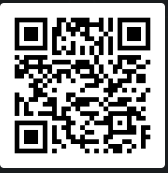
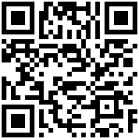
Add July 4th post, crop QR codes.

diff --git a/_posts/2023-07-04-History-of-the-Future.md b/_posts/2023-07-04-History-of-the-Future.md
@@ -1,0 +1,94 @@
+---
+title: The History of the Internet's Future
+published: true
+---
+
+By now, you probably know that the golden age of internet culture has fallen, but did you know that the internet as a whole is actually dying? A study in 2021 showed that only 57.7% of users on the internet were human, with harmful bots making up 27.7% of the internet. Recently, the rise of bots on the internet has been growing, with the proportion of humans being the lowest it's ever been in the last eight years. People are now estimating that since 2021, bots now make up 64% of the internet, leading to influencers like KAROMETRY popping off recently by using a fake AR version of herself to sell to fans, allowing followers to pay one dollar a minute towards the CBT4 version of herself, signifying how fake the internet's become in recent years with anything actually real being censored into silence. Just recently, big tech, the media, and government-funded third parties were actually proven to all be colluding to censor Americans' freedom of speech, and this is just the tip of the iceberg.
+
+What we see today on the internet is a far cry from what it was just 10 years ago. Originally, the internet was a form of expression; it was a place where anyone could be themselves, completely liberated from the world of government censorship and corporations, while permeating all the information in the world to everyone. Even though the internet was born out of a military research project funded by the Advanced Research Projects Agency, now known as DARPA, the whole goal of the internet was to create a network that could survive a nuclear attack. However, this quickly grew into something revolutionary because, soon, in the 1970s, the concept of packet switching was developed which allowed data to be broken up into small blocks or packets and sent over the network. This made the network more efficient and reliable. Then, in 1974, the Transmission Control Protocol/Internet Protocol was first introduced, which became the standard language for data transmission over the internet, setting the groundwork for the birth of the World Wide Web.
+
+As the internet expanded beyond the scope of military and academic fields, private users started to use it. So, in 1989, Tim Berners-Lee, a British computer scientist, invented the World Wide Web, a system of interlinked hypertext documents accessed via the internet. Once the 90s came around, the internet truly went mainstream. In 1991, the World Wide Web was made available to the public and it exploded in popularity. Businesses everywhere jumped on it. It was a new gold rush as the internet was seen as a tool that would empower individuals, promote freedom of expression, and facilitate the growth of businesses. The first web browser, Mosaic, was launched in 1993, and Mosaic made the web much more accessible to users. Because of this, the internet birthed its most iconic companies, such as Amazon in 1994, Yahoo, eBay, and eventually Google in 1998.
+
+It was in the same period that the Californian Ideology was taking off, a term coined around the mid-90s by media theorists Richard Barbrook and Andy Cameron who used the term to describe a new political and social philosophy emerging from the San Francisco Bay Area, the heart of this booming internet industry. They described this philosophy as being a blend of the free-willing spirit of the hippies and the entrepreneurial zeal of the yuppies, mixing up the counterculture radicalism of the 60s with new economic liberalism. This ideology was catalyzed by the liberating and freedom-loving technology of the internet. In fact, this is why companies like eBay, Yahoo, PayPal, and Google were often associated with this ideology as they championed the power of the internet to disrupt traditional industries and democratize access to information and services around the world.
+
+And because of the huge potential of the internet, this birthed the rise of social media in the 2000s with sites like Facebook, YouTube, and Twitter transforming the way people communicate and share information. Back then, there was no censorship; the internet was the wild west. This is when we saw the birth of internet culture, with icons like Pepe the Frog being born.
+
+Now, Pepe the Frog initially emerged in 2005 in Matt Furie's comic, "Boy's Life." The comics featured Pepe and his anthropomorphic animal friends, embodying typical college lads. One comic showed Pepe responding to a question about his restroom visits, to which he retorted, "Feels good man," a phrase that would later become synonymous with one of the earliest social media sites, 4chan. The frog quickly grew in popularity with 4chan users, resembling the average 4chan user's attitude at the time. By 2009, Pepe and his catchphrase had entered the realm of popular culture, securing an entry in "Know Your Meme." With Pepe's increasing popularity, various versions of the frog started appearing, including sad, smug, and angry Pepes, which further catapulted Pepe's fame across all platforms like Reddit, Twitter, Tumblr, and any other social media platform that you can think of.
+
+However, Pepe's meaning started to morph through 4chan's binding spirits of expression, edginess, and free expression. Pepe began to symbolize more than just a meme. It was beginning to become an emblem of free speech, radical thought, conspiracy theories, and just your average internet user who appreciated and loved the internet. This time, these were the golden years of the internet. Even 4chan itself was never even a business; it was just born from the efforts of a 15-year-old, Christopher Poole, who sought to connect with fellow enthusiasts of Japanese culture, using the internet to create a new type of community. In fact, this was such a bad business model that Poole was actually losing money with a debt of over twenty thousand dollars. But this didn't matter because 4chan was never actually about profits. It was about uniting like-minded individuals to discuss Japanese culture and anime, offering a perfect outlet for marginalized individuals across the globe to express their passions freely, being connected with anyone, anywhere. Internet culture was booming, and soon...
+
+Internet culture was booming, and soon the scope of 4chan's discussions quickly expanded to include video games, music, literature, fitness, politics, and sports. At a time when the internet was mostly used by outcasts, it brought together individuals from every niche. This was a period before iPhones, tech talk videos, and the corporatization of the internet, making this community of outsiders on 4chan revolutionary.
+
+Unsurprisingly, 4chan was the breeding ground for trends in internet culture. It was the pioneer of this, with many early memes coming from 4chan and defining the internet landscape. One example, aside from Pepe the Frog, was the Lolcat meme, combining a cat's image with text. As these memes entered the realm of public consciousness, it became clear that 4chan was no longer just a haven for niche groups. Its influence was infiltrating popular culture.
+
+Over time, 4chan's memes evolved into trolling. For instance, the infamous Rick Roll was born when a 4chan user shared a YouTube link which was supposed to lead to a GTA 4 trailer, but instead directed users to Rick Astley's song, "Never Gonna Give You Up". Another example is when the bizarre song by Tay Zonday, "Chocolate Rain", was posted to 4chan, and 4chan users all came together to boost its YouTube ranking for fun, so much so that it became a mainstream song and went viral everywhere.
+
+An infamous trolling episode involved a marketing campaign by Mountain Dew, where customers voted for a new name for their drink. All of the 4chan users banded together to rig the vote, demonstrating their ability to disrupt mainstream marketing campaigns and popular culture as a whole.
+
+However, the trolling didn't stop at harmless pranks on businesses. 4chan users would also embark on extreme forms of trolling against corporations, governments, and any group they perceived as harming the world. A group of anonymous 4chan users formed the group now known as Anonymous. At first, they began orchestrating mass trolling events, which finally brought 4chan into the mainstream spotlight. They infamously targeted the Church of Scientology in 2008, launching a DDoS attack on their websites while also Rick Rolling the church.
+
+Anonymous began publishing YouTube videos in a robotic voice, which went viral, sparking global protests against the church. They didn't stop there. Anonymous went on to disrupt major banks, support Wikileaks, aid the Arab Spring riots, and even hacked 485 Chinese government websites in protest against their oppressive treatment of citizens.
+
+4chan, once a haven for "weeaboos" and memes, expanded its reach to set precedents for real-world accountability. They were pioneers of free speech. What began as an outlet for marginalized views was now a platform challenging tyrannical governments and predatory organizations, giving a voice to the voiceless. This was the golden age of the internet.
+
+However, around the mid-2010s, the "dead internet theory" claims the online world became a repetitive and homogeneous capitalist machine where almost everything became recycled, and nothing was original. As the internet evolved, it seemed that many of the utopian dreams and Californian ideology became rotten from the inside.
+
+The internet has created new, even more predatory and exploitative ways of running a business. Airbnb and Uber are often cited as examples of the sharing economy or gig economy, where services are provided by individuals on a freelance or part-time basis, often through a digital platform. However, one of the best marketing strategies for these companies is to co-opt the idea of community for their own economic benefits.
+
+For example, Uber drivers are considered independent contractors rather than employees, which means they are responsible for their own vehicle costs and don't receive benefits like health insurance or paid time off. Similarly, Airbnb hosts take on the risks associated with renting out their homes, such as property damage or problematic guests, all while contributing to rising rent costs in major cities globally.
+
+Link rot is a term used to describe the phenomenon where hyperlinks on the internet become obsolete or broken over time. This can occur for various reasons, such as when the webpage the link is pointing to is removed, deleted, or restructured, or when the domain is not renewed or there are server issues.
+
+According to a recent study by Old Dominion University's Department of Computer Science, nearly 11 percent of shared resources will be lost after the first year of publishing and after that, 0.02 will be lost per day. This means that over the course of 20 years, it's estimated that 98.4 percent of links on the internet may experience some form of link rot, meaning that a huge portion of the information that you see online is effectively disappearing. This isn't just limited to casual browsing or general information, this has serious implications for various sectors, including the legal and academic fields.
+
+For instance, more than 50 percent of U.S. Supreme Court's opinions contain dead links, completely wiping out various sources to support any arguments or decisions made. This is critical because if these links are broken, it becomes incredibly difficult to verify the information or to follow the reasoning of the courts. Similarly, over 70 percent of Harvard academic journals contain some sort of link rot. These academic journals rely on numerous citations to support their findings. Without this, all academic integrity is lost. If these links are broken, it becomes incredibly difficult to verify any information online or even to build upon this research.
+
+In any case, this challenges our idea of the internet as an everlasting record of humanity. Perhaps this isn't a bad thing though. In fact, link rot reflects the way everything else changes over time. Just like the cells in your body, new web pages and links are born while the old ones die off to be replaced. However, the problem here is that we're not keeping track of the important parts, and we're not replacing the old internet with anything of value. It's the content of the new internet, the internet that we see today, that counts.
+
+When you take a closer look at the state of the modern internet, it's easy to come to the conclusion that it's dead and that it's been this way for some time. To understand why the internet has died, we need to look into the "dead internet theory".
+
+The "dead internet theory" is a relatively recent idea that originated from an obscure online forum. The theory was first proposed in a post that suggested that the internet as we knew it died around 2016 or 2017, with the post claiming that the internet is now largely controlled by artificial intelligence and bots that generate content to manipulate people's thoughts and actions. It suggests that many online influencers aren't even real, but simply paid shills or part of government disinformation units. Quickly, the theory gained traction and was picked up by various online communities, and eventually made its way into mainstream media discussions.
+
+According to the theory, we're living in a real-life Matrix designed to distract us from the truth that we're just drones in a digital ant hill. We live, work, and die so that the wealthy and powerful can grow more wealthy and powerful. Despite its dubious origins, the dead internet theory resonated with many people's experiences of the internet. It seemed to capture a sense of disillusionment and unease about the changes that have occurred in the online world.
+
+The core idea of this theory is that the internet changed from the creative and quirky world of the late 90s and early 2000s to a repetitive, homogeneous, empty capitalistic machine. You see, according to the theory, almost everything we see online is just looking to generate clicks for financial gain. Personal websites and blogs have become redundant due to the rise of social media sites like Facebook and Instagram, and many creative ideas have fallen by the wayside, replaced by an empty, hollowed-out, corporatized version of the same thing.
+
+Currently, 43% of all internet bandwidth is consumed simply by six mega corporations: Netflix, Google, Amazon, Facebook, Microsoft, and Apple. These companies, controlling almost 50 percent of the internet, have developed algorithms and conducted billions in research to know how to addict you, to draw away your attention. They are the largest players in creating our dopamine-fried generation, developing the foundations for our constant seeking of stimulation.
+
+According to a recent study, when participants were left alone with their thoughts for 15 to 16 minutes, about 50 percent of these people found the experience incredibly boring. So boring, in fact, that when given the option to self-administer an electric shock, a significant number of participants chose to do so rather than just sit with their own thoughts for six minutes. Our generation, a generation that has grown up on the modern internet, has become so accustomed to constant distractions and noise that we often escape into the hands of these companies, because we never want to be bored. We have been trained to never want to be with our own thoughts.
+
+Yet boredom and solitude, being with your own thoughts, are what foster creativity and ingenuity. Historic figures like Isaac Newton and J.K. Rowling made historic discoveries or created noble works of art during periods of solitude and boredom. Just staring at your wall for 10 minutes can give you more insights about yourself, your habits, and your future than any social media site can possibly provide.
+
+Yet while you have your dopamine fried, your attention span destroyed, and your thoughts decimated, this then allows people to collect all of your data, chop it up, and sell it for billions. And who is this data even going towards? Websites generating a culture of freedom, limit, and authenticity? No. It goes to those who are robbing your future potential by destroying your dopamine and mental health.
+
+For instance, Instagram, from its inception, has promoted a culture of photoshopping your face, leading to the widespread use of the term "Instagram reality." There's even a subreddit with over a million subscribers that exposes the fabricated, idealized life that is so commonplace on Instagram. It's not just faces and bodies that are fabricated. It's even people's audiences. It's remarkably easy to buy bot accounts as followers, a practice that a ton of celebrities engage in. For instance, it is estimated that Ariana Grande has over 65 million fake followers.
+
+All of these deceptions contribute to an unrealistic standard on Instagram. Despite growing awareness of these facets, they still subconsciously impact your mindset and mental health, as Instagram's 500 million regular users face a daily bombardment of unattainable standards, leading to the subconscious and conscious comparison to others' perfect, yet fake lives. There are consequences to this. According to recent research, among the five major social media platforms that young people use, Instagram was rated as the most detrimental to users' mental health, having the most severe effects on people's body image, along with depression and anxiety.
+
+All of this is due to Instagram's toxic culture of perfectionism, something that has generated untold billions for Mark Zuckerberg. What's even more disturbing is that Facebook, the parent company of Instagram, has been intentionally overlooking these issues on both platforms. In late 2021, an internal presentation for Instagram and Facebook employees was leaked, revealing shocking content and implications. The presentation not only showed that Instagram is harmful to young people, but also that Facebook has conducted detailed research on its effects. The most damning statement it makes is that Instagram is "harmful for a sizable percentage of teens, particularly teenage girls." For instance, 40 percent of teens now feel unattractive due to Instagram.
+
+Yet the strangest part is that these teenagers are completely aware of the detrimental effects of Instagram but are still addicted to its algorithm, compelled to use it for the fear of missing out. This traps hundreds of millions of people into a vicious cycle of constantly seeking the next dopamine hit.
+
+The fear of missing out traps hundreds of millions of people into a vicious cycle of constantly seeking the next dopamine hit and feeling left out if they're not continually chasing this dopamine high. Fear of missing out leads to striving to outdo others, causing a vicious cycle that completely destroys self-esteem and depletes the dopamine left in your brain. What's even more alarming is that the evidence of this damaging cycle isn't enough for Facebook. They are intent on exploiting even more of the population because it generates them hundreds of billions of dollars, as evidenced by their plans to release a version of Instagram for children under 13.
+
+This disturbing move was only delayed by the leak of the presentation; otherwise, it probably would have been launched by now. Even though Facebook is very aware of how unsafe Instagram is for teenagers, they're now targeting even more vulnerable and naive younger children, clearly demonstrating Facebook's disregard for its users. The only reason they paused the release of this children's app was due to public backlash. But once that subsides, it's likely that we'll see the release of Instagram Kids soon after.
+
+Bear in mind, this company controls Instagram, WhatsApp, and has over three and a half billion users across all of its platforms. Half of the entire world's population is now being influenced by this company. How is this power being utilized? It is used to destroy your mental health, ruin your future potential, damage your body image, and isolate you from your community. The more these negative emotions are harnessed by Facebook, the more it fuels division among people, aggressive political divides, internet drama, and more addiction to the platform, creating more negative emotions for everyone.
+
+But if you thought things could get any faker on the internet, wait until you see this. Right now, we're about to enter the next stage in internet culture, a stage that's arguably worse than the one we're already in: the age of AI and deep fakes. From Twitch streamers morphing into adult film stars to Joe Rogan endorsing fraudulent products, and even some deep fakes that could genuinely trigger a massive global conflict. These deep fakes are now appearing all over the internet.
+
+In one particularly damaging example, a clip circulated on Twitter, amassing over 8 million views, that seemed to announce the drafting of young men and women for war. This was a deep fake, but its potential to ignite real-world conflicts due to the power these deep fakes have over vast numbers of people is incredibly damaging.
+
+It's unsurprising that countries like Russia are already starting to experiment with deep fakes as weapons. As early as 2021, European Parliament members were taken aback when they discovered that they had been talking to a deep fake of Putin critic Leonard Volkov. They thought they were speaking to the critic, only to find out that it was just an AI robot. The fact that this happened demonstrates the true threat of deep fakes and how they can undermine democracy.
+
+Deep fakes are not only used for propaganda. They can be used for blackmail, to destroy people's careers, or even scam people. There have been countless instances on TikTok where Joe Rogan deep fakes promote shoddy products, only for people to realize later on that it was just a deep fake.
+
+The recent report on the Cybersecurity and Infrastructure Security Agency uncovered the ugly truth about government censorship. While the CISA was originally made to prevent cyber attacks on the U.S. government's critical infrastructure, they began monitoring and censoring U.S. citizens on social media, colluding with big tech companies to spy on and suppress posts supporting certain viewpoints or ideas.
+
+The report alleges that the CISA outsourced their work to a shell company to evade detection and exploit legal loopholes. The CISA even started using a new term, "malinformation," to describe factual, true information spread without adequate context. This was used as justification to flag and censor the truth.
+
+The report provides substantial evidence like email exchanges and records of meetings to show how deep and widespread the censorship became. However, the report hasn't been definitively proven yet. The most important point illuminated by the report is the use of the term "misinformation" as a label to censor anything the government doesn't want people to hear. The CISA decides what is and isn't misinformation based purely on what they want people to believe.
+
+This should not be a right-wing or left-wing talking point; everyone suffers in a repressed and corrupted society. Most countries have some sort of CISA alternative controlling public discourse. In the UK, it's called the "Nudge Unit" and in Australia, it's the Behavioral Economics Team.
+
+These attempts to control speech stand in direct opposition to the values the internet once represented. What used to be a culture of freedom, expression, and community is now slowly dying, suffocated by the glossy sheen of corporate and government influence.

diff --git a/about.md b/about.md
@@ -60,10 +60,13 @@ Thank you for visiting [Dætalytica](https://daetalytica.io), and we hope you fi
 We also encourage you to join our community. Together, we can make the internet a safer and more secure place for everyone.
 
 ### Cryptocurrency Donations
-- ![Monero](assets/xmr.png) ![QRcode](assets/xmrQR.png) 89ib9Uv5s8Q57ydC8pnXEf6q1UHgP8DcJCm36vFdvjRRHtJByDhWWhzdMqHx9h1qmk1YsgnnnY5drEcgDu8wyMiYDzjUUz4
-- ![Bitcoin](assets/btc.png) ![QRcode](assets/btcQR.png) bc1qlkuf96a4nyegp96p7j9hayxe2shzx26j6yke9l
-- ![Litecoin](assets/ltc.png) ![QRcode](assets/ltcQR.png) LiMAQTP5rTR5Ms9iVMcvJFR47TXtmFytHb
-- ![Dogecoin](assets/doge.png) ![QRcode](assets/dogeQR.png) DCA6hHxPBcnF8xyZg37HEMBBxoYsWc2rK7
-- ![EVM](assets/evm.png)![Ethereum](assets/eth.png)![BNB Smart Chain](assets/bnb.png)![Polygon](assets/polygon.png) ![QRcode](assets/evmQR.png) 0x838751Aaa94B44541d16D94186e6dC189f5082B9
-- ![Cardano](assets/ada.png) ![QRcode](assets/adaQR.png) addr1qx6x4vte0ce9ps5mxunz4e0xctfc3yfkzk4uzaqyapr6td95d2chjl3j2rpfkdex9tj7dskn3zgnv9dtc96qf6z85k6qq6wvpj
-- ![Polkadot](assets/dot.png) ![QRcode](assets/dotQR.png) 154CtsCArZRZ5Mn6U2c7RHEV5AYpgYPUewaAxDBRmLfnLnVW
+| Cryptocurrency/QR | Address |
+| --- | --- |
[1 lines of base64/hex data omitted]
+| ![Bitcoin](assets/btc.png) ![QRcode](assets/btcQR.png) | `bc1qlkuf96a4nyegp96p7j9hayxe2shzx26j6yke9l` |
+| ![Litecoin](assets/ltc.png) ![QRcode](assets/ltcQR.png) | `LiMAQTP5rTR5Ms9iVMcvJFR47TXtmFytHb` |
+| ![Dogecoin](assets/doge.png) ![QRcode](assets/dogeQR.png) | `DCA6hHxPBcnF8xyZg37HEMBBxoYsWc2rK7` |
+| ![EVM](assets/evm.png)![Ethereum](assets/eth.png)![BNB Smart Chain](assets/bnb.png)![Polygon](assets/polygon.png) ![QRcode](assets/evmQR.png) | `0x838751Aaa94B44541d16D94186e6dC189f5082B9` |
[1 lines of base64/hex data omitted]
+| ![Polkadot](assets/dot.png) ![QRcode](assets/dotQR.png) | `154CtsCArZRZ5Mn6U2c7RHEV5AYpgYPUewaAxDBRmLfnLnVW` |
+
